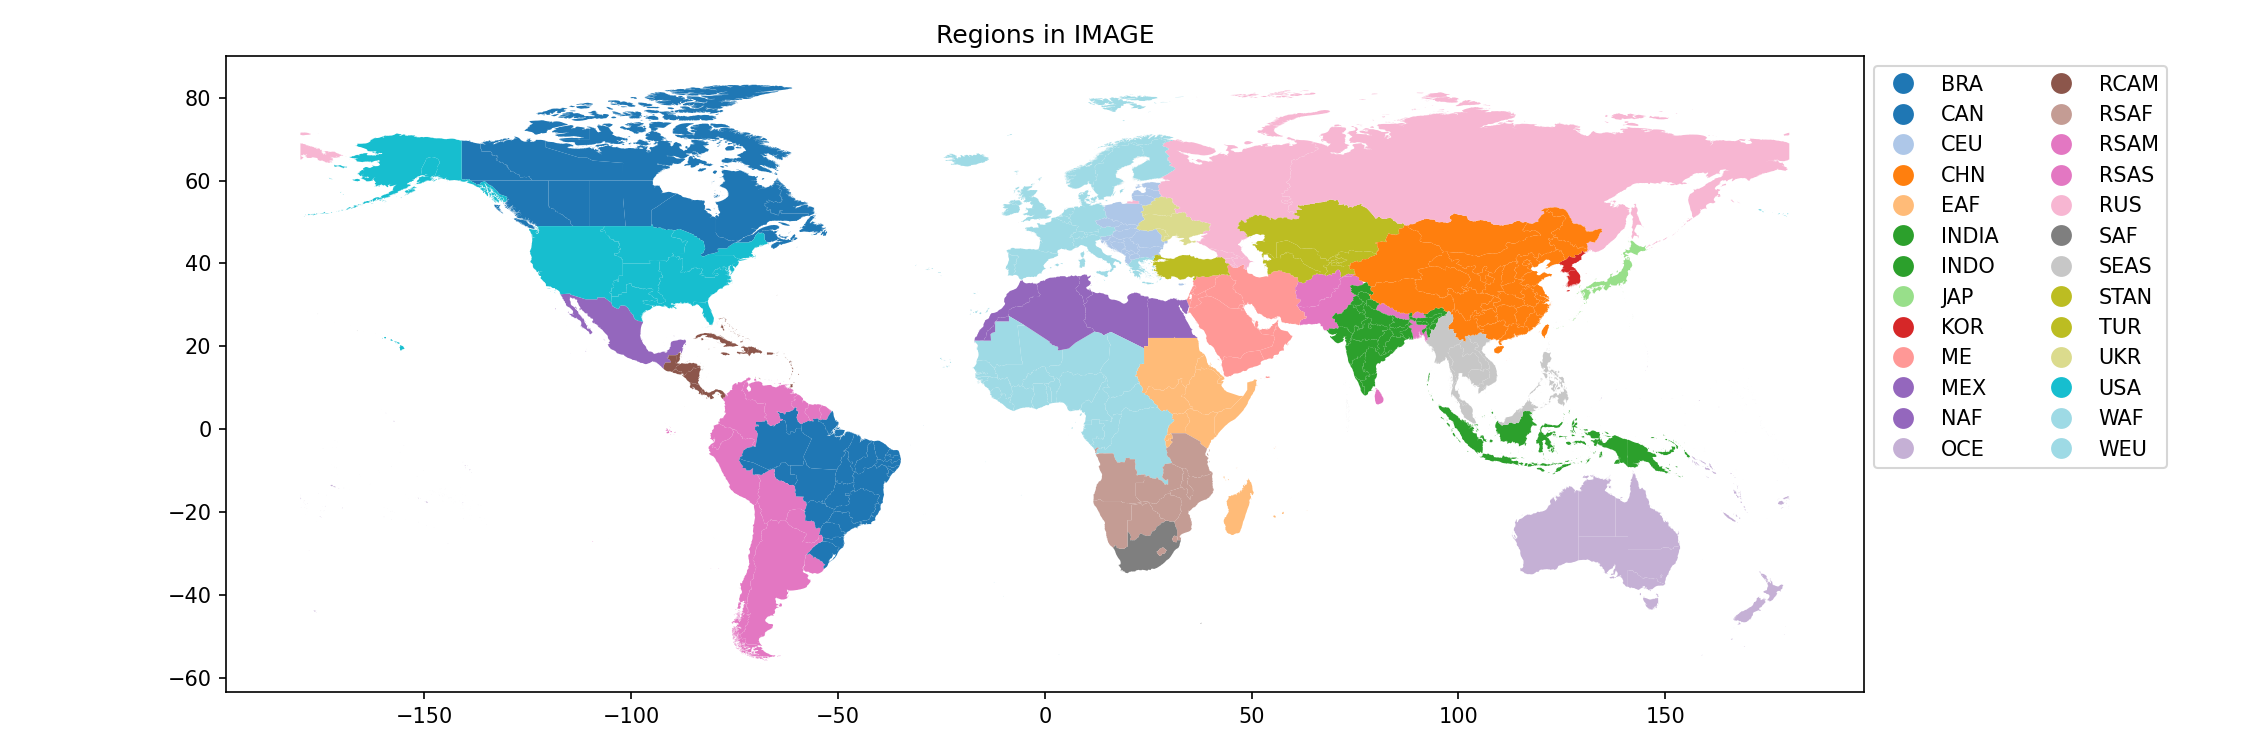
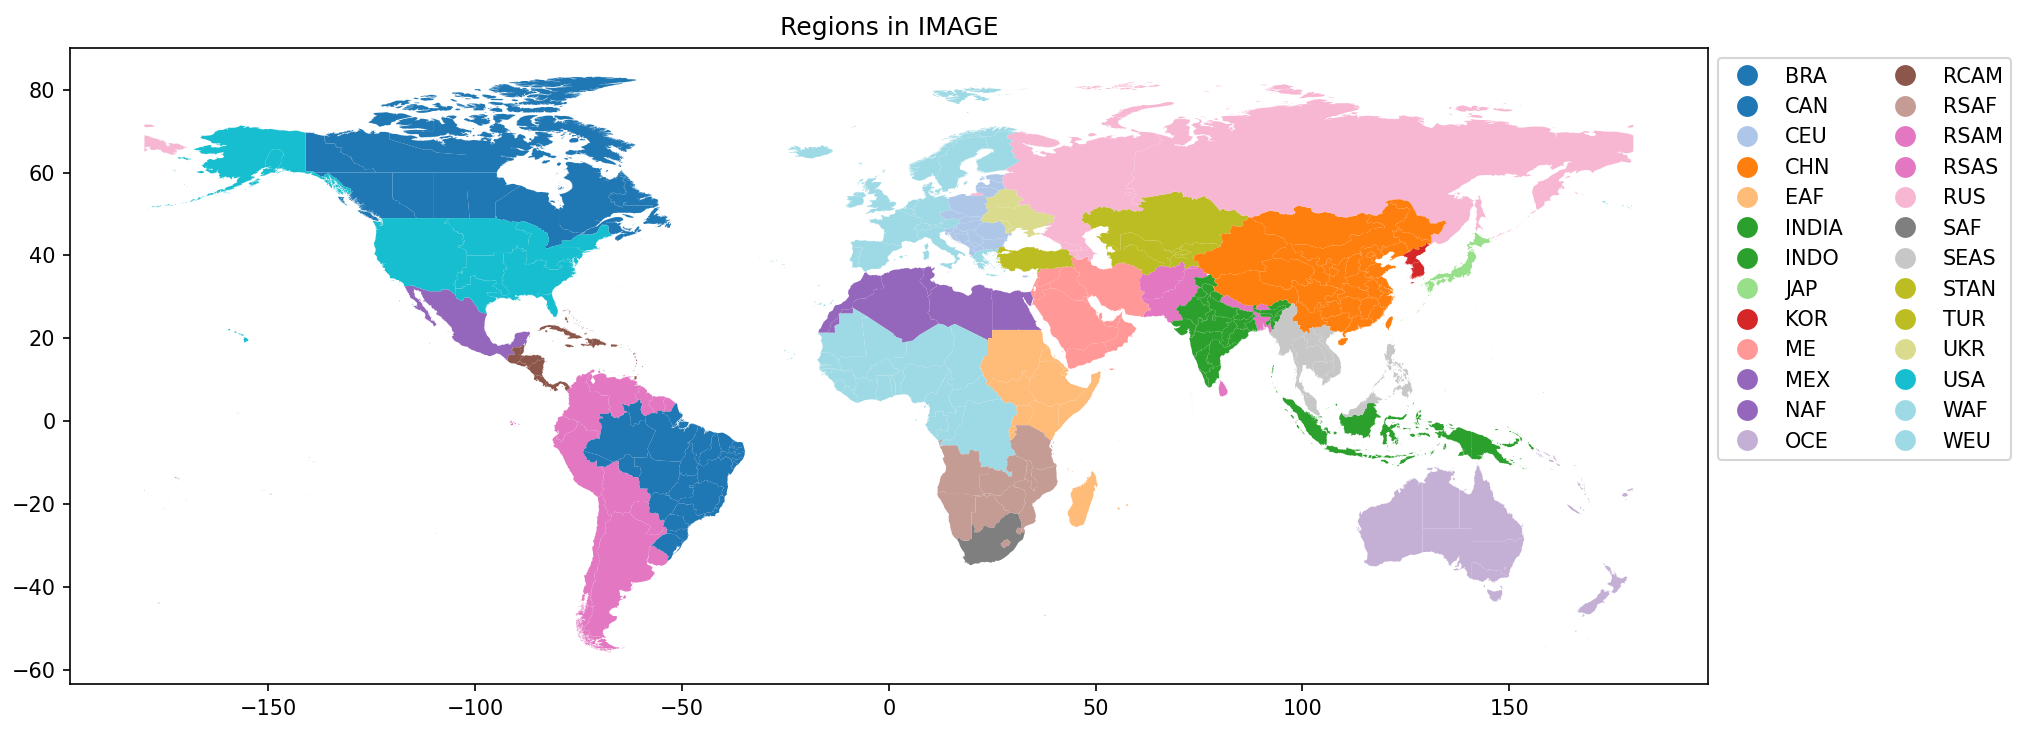
Docs

diff --git a/docs/transform.rst b/docs/transform.rst
@@ -941,14 +941,14 @@ IAM models have slightly different geographical resolutions and definitions.
 Map of IMAGE regions
 
 .. image:: map_image.png
-   :width: 400pt
+   :width: 500pt
    :align: center
 
 
 Map of REMIND regions
 
 .. image:: map_remind.png
-   :width: 400pt
+   :width: 500pt
    :align: center
 
 
